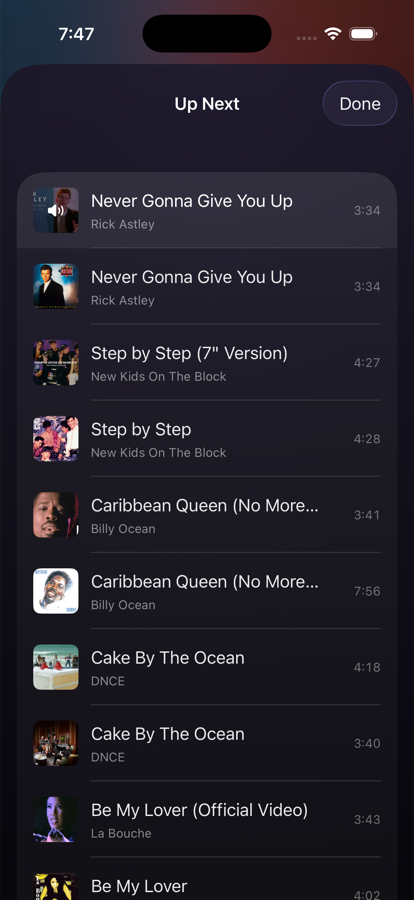
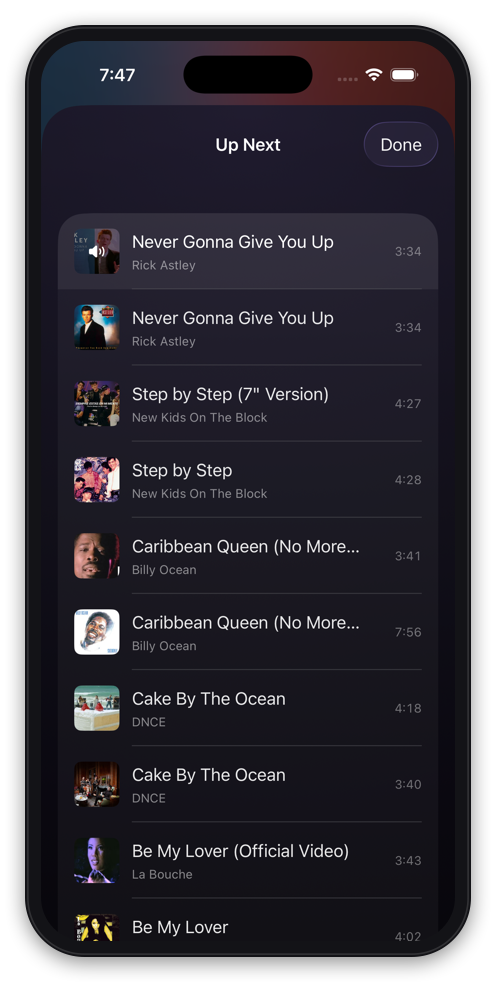
Add MIT license, device frames on screenshots, discovery shot
Frames are baked into the images rather than styled, since GitHub strips
CSS from READMEs and both surfaces should show the same thing.

diff --git a/tools/frame-screenshot.swift b/tools/frame-screenshot.swift
@@ -1,0 +1,78 @@
+import CoreGraphics
+import Foundation
+import ImageIO
+import UniformTypeIdentifiers
+
+// Wraps a phone screenshot in a device bezel so it reads as a phone in READMEs
+// and on the site, where CSS isn't available (GitHub strips styles).
+//
+//   swift tools/frame-screenshot.swift <in.png> <out.png>
+
+guard CommandLine.arguments.count > 2 else {
+    print("usage: frame-screenshot.swift <in.png> <out.png>")
+    exit(1)
+}
+let input = URL(fileURLWithPath: CommandLine.arguments[1])
+let output = URL(fileURLWithPath: CommandLine.arguments[2])
+
+guard let source = CGImageSourceCreateWithURL(input as CFURL, nil),
+      let shot = CGImageSourceCreateImageAtIndex(source, 0, nil)
+else { fatalError("could not read \(input.path)") }
+
+let shotWidth = CGFloat(shot.width)
+let shotHeight = CGFloat(shot.height)
+
+// Bezel proportions tuned against the screenshot's own corner radius so the
+// glass sits concentrically inside the frame.
+let bezel = (shotWidth * 0.038).rounded()
+let margin = (shotWidth * 0.06).rounded()          // room for the drop shadow
+let screenRadius = shotWidth * 0.105
+let bodyRadius = screenRadius + bezel
+
+let canvasWidth = Int(shotWidth + (bezel + margin) * 2)
+let canvasHeight = Int(shotHeight + (bezel + margin) * 2)
+
+let ctx = CGContext(
+    data: nil, width: canvasWidth, height: canvasHeight,
+    bitsPerComponent: 8, bytesPerRow: 0,
+    space: CGColorSpace(name: CGColorSpace.sRGB)!,
+    bitmapInfo: CGImageAlphaInfo.premultipliedLast.rawValue)!
+
+let body = CGRect(
+    x: margin, y: margin,
+    width: shotWidth + bezel * 2, height: shotHeight + bezel * 2)
+let screen = CGRect(x: margin + bezel, y: margin + bezel, width: shotWidth, height: shotHeight)
+
+// Body, with a soft shadow so it lifts off a light or dark page equally.
+ctx.saveGState()
+ctx.setShadow(
+    offset: CGSize(width: 0, height: -shotWidth * 0.012),
+    blur: shotWidth * 0.05,
+    color: CGColor(red: 0, green: 0, blue: 0, alpha: 0.45))
+ctx.addPath(CGPath(roundedRect: body, cornerWidth: bodyRadius, cornerHeight: bodyRadius, transform: nil))
+ctx.setFillColor(CGColor(red: 0.06, green: 0.06, blue: 0.07, alpha: 1))
+ctx.fillPath()
+ctx.restoreGState()
+
+// A hairline highlight along the edge reads as the metal rail.
+ctx.addPath(CGPath(
+    roundedRect: body.insetBy(dx: bezel * 0.18, dy: bezel * 0.18),
+    cornerWidth: bodyRadius * 0.94, cornerHeight: bodyRadius * 0.94, transform: nil))
+ctx.setStrokeColor(CGColor(red: 1, green: 1, blue: 1, alpha: 0.13))
+ctx.setLineWidth(max(1, shotWidth * 0.004))
+ctx.strokePath()
+
+// Screen, clipped to rounded corners.
+ctx.saveGState()
+ctx.addPath(CGPath(roundedRect: screen, cornerWidth: screenRadius, cornerHeight: screenRadius, transform: nil))
+ctx.clip()
+ctx.draw(shot, in: screen)
+ctx.restoreGState()
+
+guard let framed = ctx.makeImage(),
+      let destination = CGImageDestinationCreateWithURL(
+        output as CFURL, UTType.png.identifier as CFString, 1, nil)
+else { fatalError("could not write \(output.path)") }
+CGImageDestinationAddImage(destination, framed, nil)
+CGImageDestinationFinalize(destination)
+print("framed \(input.lastPathComponent) -> \(output.lastPathComponent) (\(canvasWidth)x\(canvasHeight))")

diff --git a/site/app/page.tsx b/site/app/page.tsx
@@ -321,10 +321,16 @@ function Features() {
 
 const SHOTS = [
   {
+    src: "/screenshots/discovery.png",
+    alt: "Discovery screen finding the Mac on the local network",
+    caption: "Finds your Mac",
+    note: "Bonjour discovery — no IP addresses, no QR codes, no config.",
+  },
+  {
     src: "/screenshots/player.png",
     alt: "Cue player screen showing artwork, scrubber, transport controls and a volume slider",
     caption: "The remote",
-    note: "Artwork takes its own shape — square for albums, 2:3 for posters, wide for video thumbnails.",
+    note: "Artwork takes its own shape — square for albums, 2:3 for posters, wide for video.",
   },
   {
     src: "/screenshots/sources.png",
@@ -336,7 +342,7 @@ const SHOTS = [
     src: "/screenshots/queue.png",
     alt: "Up Next queue showing tracks with artwork, artist and duration",
     caption: "Up next",
-    note: "The real queue from YouTube Music or a YouTube mix, with the current track marked.",
+    note: "The real queue from YouTube Music or a YouTube mix, current track marked.",
   },
 ];
 
@@ -351,20 +357,20 @@ function Screenshots() {
           Not mockups. The actual app.
         </h2>
       </Reveal>
-      <div className="mt-14 grid gap-8 sm:grid-cols-3">
+      <div className="mt-14 grid gap-8 sm:grid-cols-2 lg:grid-cols-4">
         {SHOTS.map((shot, i) => (
-          <Reveal key={shot.src} delay={i * 100}>
+          <Reveal key={shot.src} delay={(i % 4) * 100}>
             <figure>
-              <div className="overflow-hidden rounded-[26px] border border-white/[0.09] bg-surface/60 shadow-2xl shadow-black/40">
-                <Image
-                  src={shot.src}
-                  alt={shot.alt}
-                  width={414}
-                  height={900}
-                  className="h-auto w-full"
-                />
-              </div>
-              <figcaption className="mt-4">
+              {/* The bezel is baked into the image so GitHub and the site
+                  show the same thing — READMEs can't style anything. */}
+              <Image
+                src={shot.src}
+                alt={shot.alt}
+                width={496}
+                height={982}
+                className="h-auto w-full"
+              />
+              <figcaption className="mt-3">
                 <span className="text-[15px] font-bold">{shot.caption}</span>
                 <span className="mt-1 block text-[13.5px] leading-relaxed text-ink-3">
                   {shot.note}

diff --git a/README.md b/README.md
@@ -19,9 +19,10 @@
 Cue is a pair of apps: **Cue Booth**, a macOS menu bar app that watches and drives whatever is playing, and **Cue**, an iPhone app that talks to it over your local network. No cloud, no account, no data leaves your machine.
 
 <p align="center">
-  <img src="docs/screenshots/player.png" width="270" alt="Cue player screen showing album art, scrubber and transport controls">
-  <img src="docs/screenshots/sources.png" width="270" alt="Source picker listing browser tabs, QuickTime and VLC">
-  <img src="docs/screenshots/queue.png" width="270" alt="Up Next queue with artwork and artists">
+  <img src="docs/screenshots/player.png" width="240" alt="Cue player screen showing album art, scrubber and transport controls">
+  <img src="docs/screenshots/sources.png" width="240" alt="Source picker listing browser tabs, QuickTime and VLC">
+  <img src="docs/screenshots/queue.png" width="240" alt="Up Next queue with artwork and artists">
+  <img src="docs/screenshots/discovery.png" width="240" alt="Discovery screen finding the Mac on the local network">
 </p>
 
 ---
@@ -251,4 +252,4 @@ swift tools/wstest.swift ws://127.0.0.1:41952 <pairing-code> '{"action":"toggleP
 
 ## License
 
-No license has been chosen yet — add one before publishing if you want others to be able to use this.
+[MIT](LICENSE) © Niket Singh
